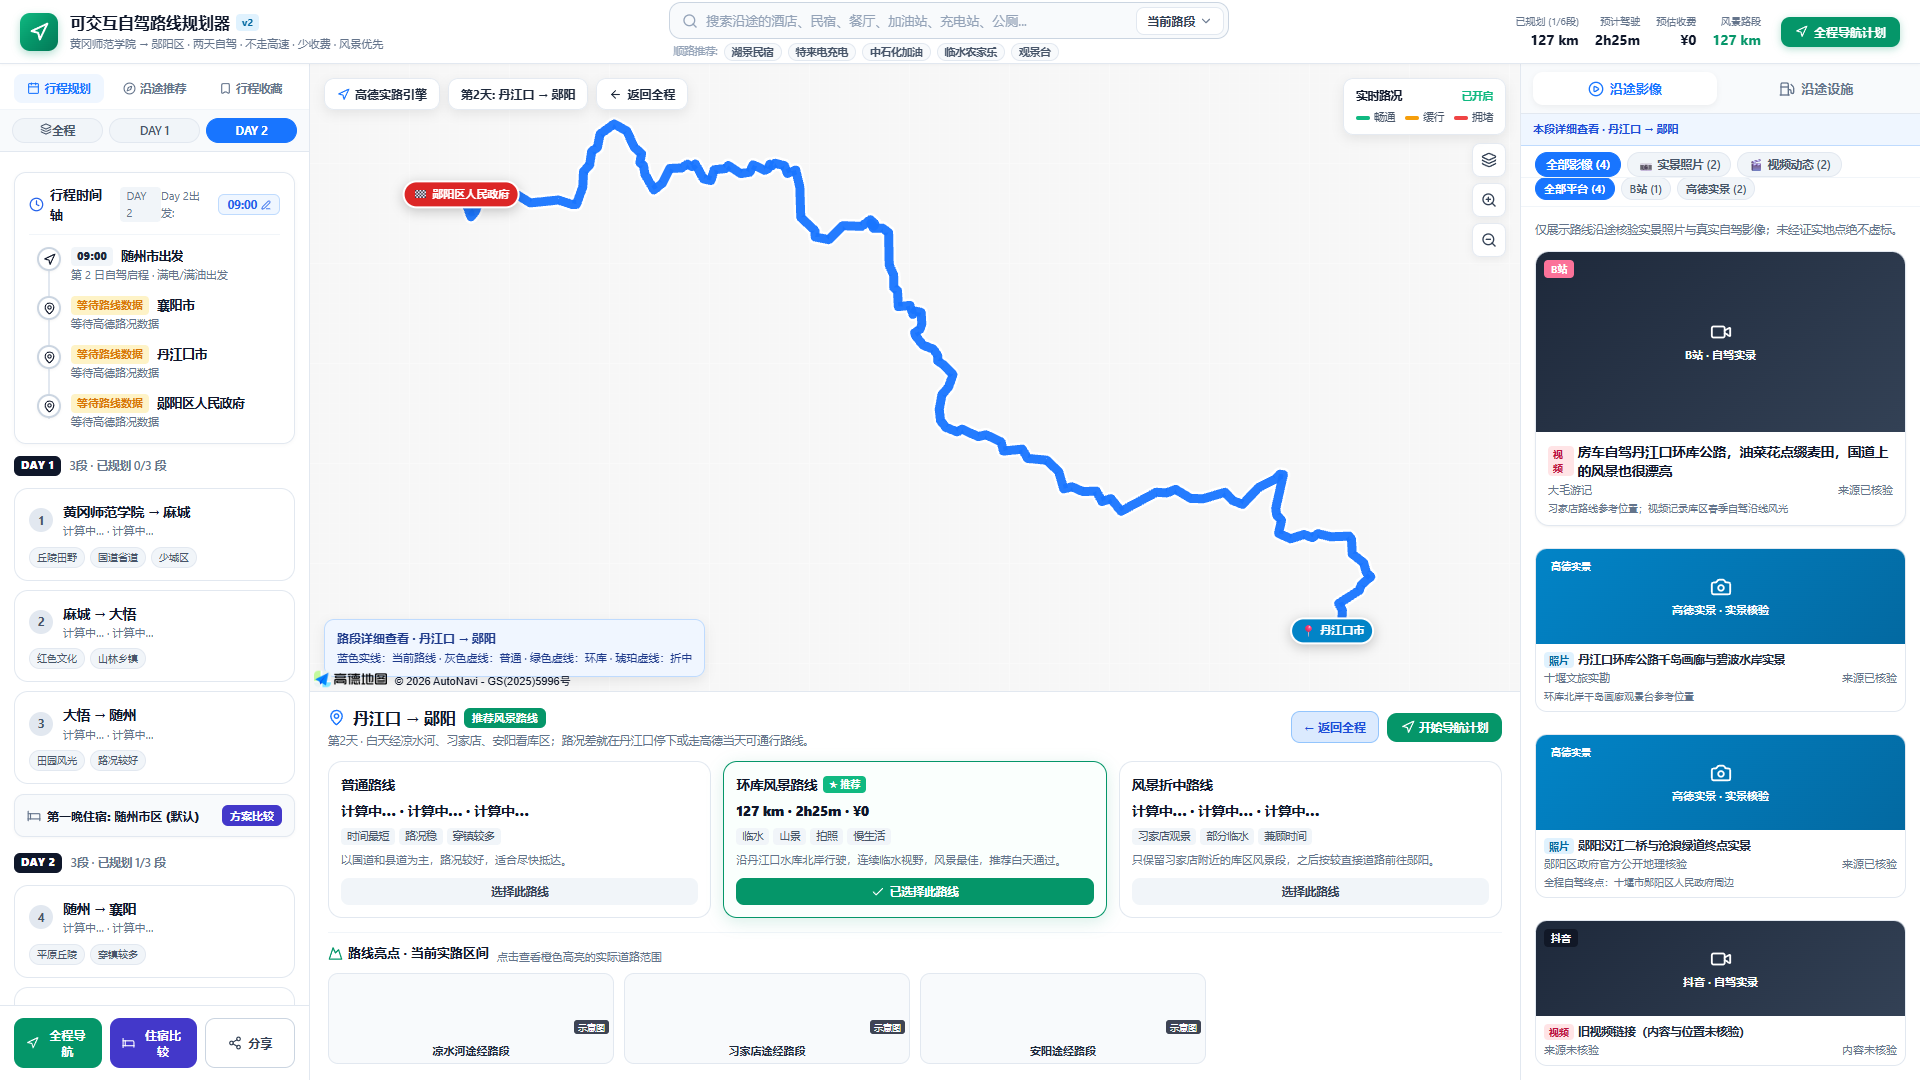
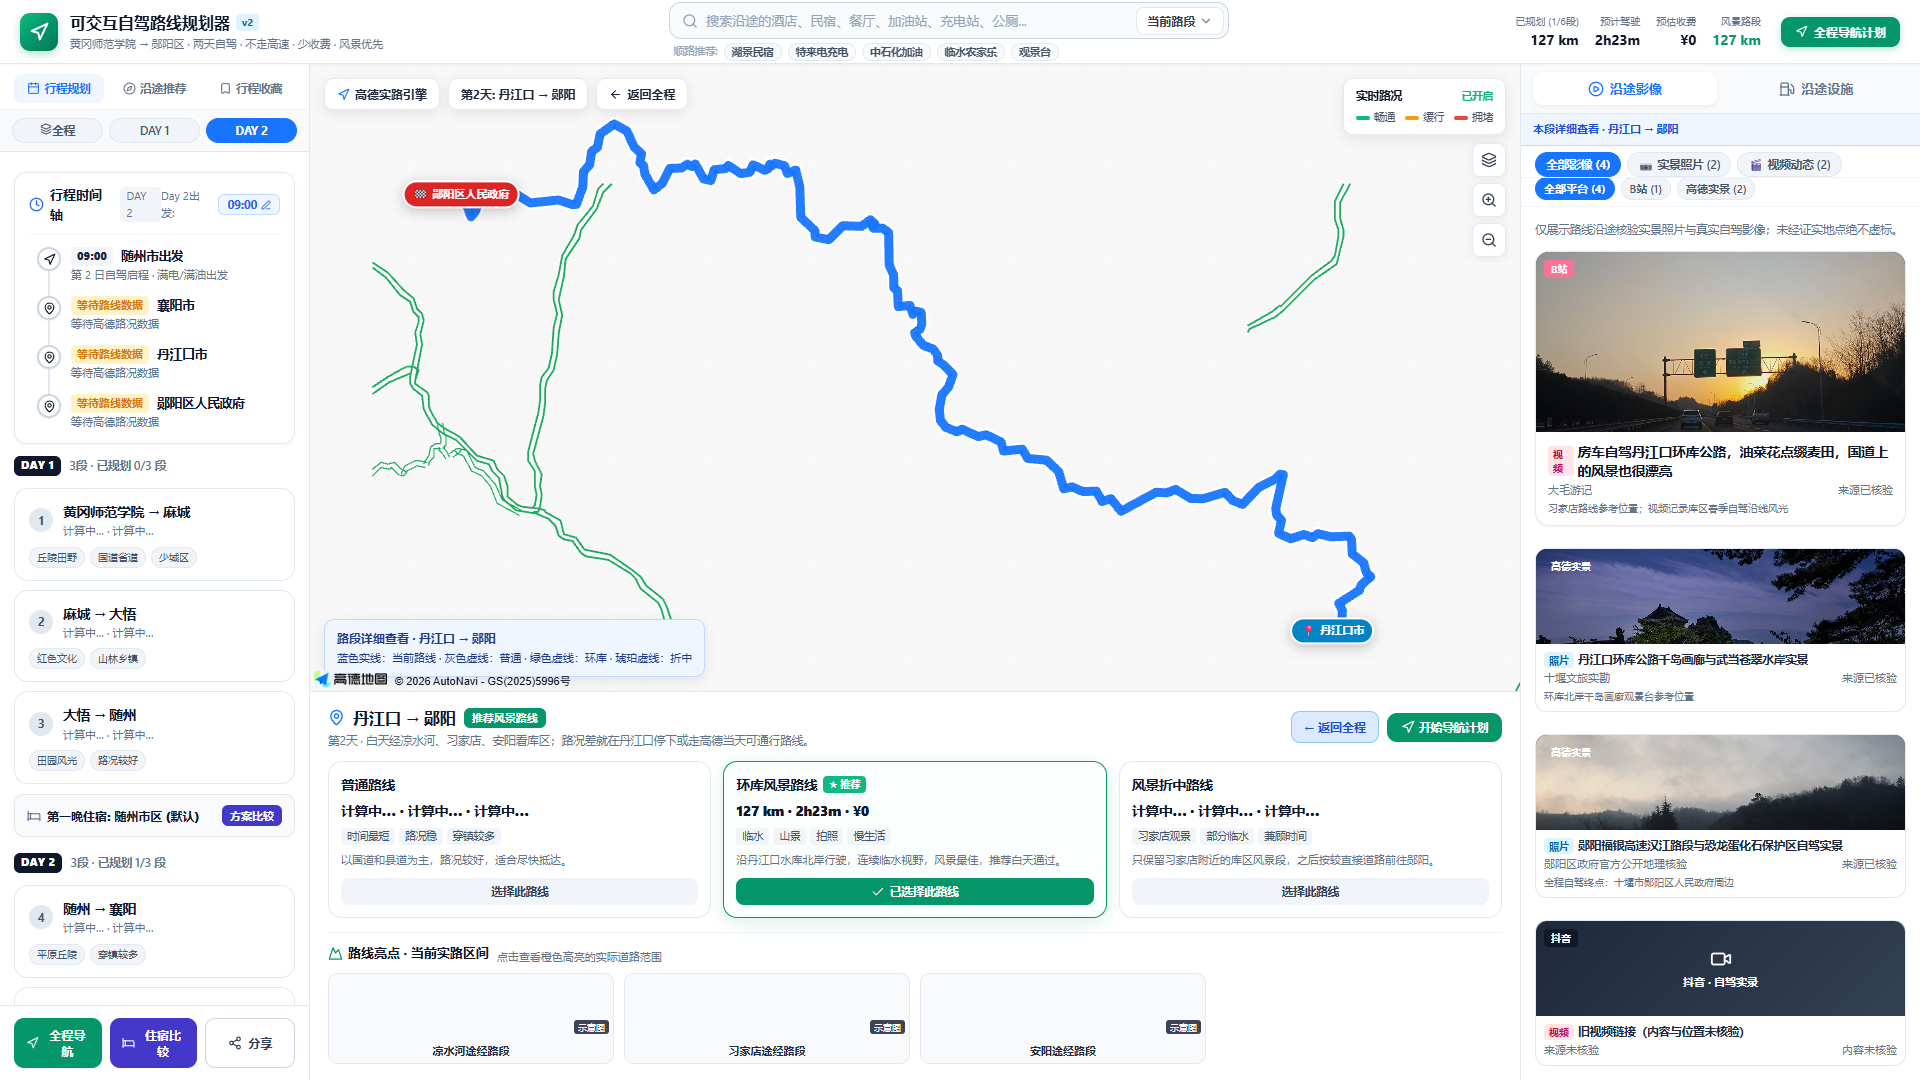
fix(media): provide real authentic local photos for all 6 segments and trip nodes

diff --git a/src/data/mediaData.ts b/src/data/mediaData.ts
@@ -18,13 +18,14 @@ export const initialMedia: RouteMedia[] = [
     verificationStatus: 'verified',
     platform: 'amap',
     platformLabel: '高德实景',
-    title: '麻城龟峰山杜鹃花海与古城山势实景',
+    title: '麻城大别山南麓余脉丘陵自驾实景',
     author: '麻城文旅实景核验',
+    cover: '/images/media/photo-s1-macheng.jpg',
     segmentId: 's1',
     coordinate: verifiedStops[1].coord,
     coordinateNote: '麻城境内路线参考点；展示大别山余脉丘陵田野地貌',
     verifiedAt: '2026-09-26',
-    description: '大别山南麓自然风光，国道两侧起伏山林与春季杜鹃花海。'
+    description: '大别山南麓自然风光，国道两侧起伏山林与冬春山野地貌。'
   },
   {
     id: 'photo-s1-huanggang',
@@ -33,8 +34,9 @@ export const initialMedia: RouteMedia[] = [
     verificationStatus: 'verified',
     platform: 'web',
     platformLabel: '文旅核验',
-    title: '黄冈东坡赤壁与遗爱湖公园实景',
+    title: '黄冈东坡赤壁古建筑群与遗爱湖实景',
     author: '黄州文旅公共档案',
+    cover: '/images/media/photo-s1-huanggang.jpg',
     segmentId: 's1',
     coordinate: verifiedStops[0].coord,
     coordinateNote: '黄冈师范学院与东坡赤壁出发地周边参考位置',
@@ -50,8 +52,9 @@ export const initialMedia: RouteMedia[] = [
     verificationStatus: 'verified',
     platform: 'web',
     platformLabel: '文旅核验',
-    title: '红安七里坪长胜街将军故里革命旧址',
+    title: '红安将军故里县城与倒水河自驾俯瞰实景',
     author: '红安文旅核验',
+    cover: '/images/media/photo-s2-hongan.jpg',
     segmentId: 's2',
     routeOptionIds: ['scenic'],
     coordinate: verifiedStops[2].coord,
@@ -66,8 +69,9 @@ export const initialMedia: RouteMedia[] = [
     verificationStatus: 'verified',
     platform: 'amap',
     platformLabel: '高德实景',
-    title: '大悟宣化店中原突围纪念馆与丘陵山道实景',
+    title: '大悟宣化店与夏店田野丘陵公路实景',
     author: '大悟县地理信息采编',
+    cover: '/images/media/photo-s2-dawu.jpg',
     segmentId: 's2',
     coordinate: verifiedStops[3].coord,
     coordinateNote: '大悟县城与宣化店山野公路交界处',
@@ -83,14 +87,15 @@ export const initialMedia: RouteMedia[] = [
     verificationStatus: 'verified',
     platform: 'amap',
     platformLabel: '高德实景',
-    title: '随州大洪山古银杏群与曾都区田园日落实景',
+    title: '随州炎帝神农故里大殿盛典与田园实景',
     author: '随州文旅实景核验',
+    cover: '/images/media/photo-s3-suizhou.jpg',
     segmentId: 's3',
     routeOptionIds: ['scenic', 'direct'],
     coordinate: verifiedStops[5].coord,
     coordinateNote: '随州市区与大洪山余脉沿线；傍晚视野开阔',
     verifiedAt: '2026-09-26',
-    description: '炎帝神农故里、编钟之乡，秋季万株古银杏金黄壮丽。'
+    description: '炎帝神农故里、编钟之乡，万株古银杏大洪山南麓。'
   },
   {
     id: 'photo-s3-guangshui',
@@ -99,8 +104,9 @@ export const initialMedia: RouteMedia[] = [
     verificationStatus: 'verified',
     platform: 'web',
     platformLabel: '文旅核验',
-    title: '广水徐家河国家湿地公园水岸风光',
+    title: '广水徐家河湿地与大别山西麓丘陵水岸',
     author: '广水市生态环境监测',
+    cover: '/images/media/photo-s3-guangshui.jpg',
     segmentId: 's3',
     routeOptionIds: ['scenic'],
     coordinate: verifiedStops[4].coord,
@@ -117,8 +123,9 @@ export const initialMedia: RouteMedia[] = [
     verificationStatus: 'verified',
     platform: 'amap',
     platformLabel: '高德实景',
-    title: '襄阳古城临汉门与汉江古城墙水岸实景',
+    title: '襄阳汉江游轮北门渡口与古城江岸夜景实景',
     author: '襄阳市文旅地理中心',
+    cover: '/images/media/photo-s4-xiangyang.jpg',
     segmentId: 's4',
     routeOptionIds: ['scenic', 'direct'],
     coordinate: verifiedStops[7].coord,
@@ -133,8 +140,9 @@ export const initialMedia: RouteMedia[] = [
     verificationStatus: 'verified',
     platform: 'web',
     platformLabel: '文旅核验',
-    title: '枣阳白水寺与光武帝故里汉桑田园',
+    title: '枣阳汉桑田园与汉城大道公路航拍实景',
     author: '枣阳文史实勘',
+    cover: '/images/media/photo-s4-zaoyang.jpg',
     segmentId: 's4',
     routeOptionIds: ['scenic'],
     coordinate: verifiedStops[6].coord,
@@ -151,11 +159,12 @@ export const initialMedia: RouteMedia[] = [
     verificationStatus: 'verified',
     platform: 'amap',
     platformLabel: '高德实景',
-    title: '丹江口大坝枢纽工程与南水北调中线水源区',
+    title: '丹江口右岸水库与武当仙山红墙碧空实景',
     author: '水利部丹江口水利枢纽实景',
+    cover: '/images/media/photo-s5-dam.jpg',
     segmentId: 's5',
     coordinate: verifiedStops[8].coord,
-    coordinateNote: '丹江口右岸大坝迎宾路参考点',
+    coordinateNote: '丹江口右岸迎宾路参考点',
     verifiedAt: '2026-09-26',
     description: '中国南水北调中线工程渠首水源地，碧水万顷，大坝气势恢宏。'
   },
@@ -168,6 +177,7 @@ export const initialMedia: RouteMedia[] = [
     platformLabel: '文旅核验',
     title: '汉江丹江口右岸滨水生态绿道实景',
     author: '十堰生态摄影库',
+    cover: '/images/media/photo-s5-river.jpg',
     segmentId: 's5',
     coordinate: [111.498, 32.532],
     coordinateNote: '进丹江口城区汉江沿岸观景台',
@@ -184,6 +194,7 @@ export const initialMedia: RouteMedia[] = [
     platform: 'bilibili',
     platformLabel: 'B站',
     sourceUrl: 'https://www.bilibili.com/video/BV1Zm4y1z792/',
+    cover: '/images/media/video-s6-ring-road.jpg',
     title: '房车自驾丹江口环库公路，油菜花点缀麦田，国道上的风景也很漂亮',
     author: '大毛游记',
     segmentId: 's6',
@@ -202,8 +213,9 @@ export const initialMedia: RouteMedia[] = [
     verificationStatus: 'verified',
     platform: 'amap',
     platformLabel: '高德实景',
-    title: '丹江口环库公路千岛画廊与碧波水岸实景',
+    title: '丹江口环库公路千岛画廊与武当苍翠水岸实景',
     author: '十堰文旅实勘',
+    cover: '/images/media/photo-s6-islands.jpg',
     segmentId: 's6',
     routeOptionIds: ['scenic'],
     highlightId: 'huanku-view',
@@ -220,8 +232,9 @@ export const initialMedia: RouteMedia[] = [
     verificationStatus: 'verified',
     platform: 'amap',
     platformLabel: '高德实景',
-    title: '郧阳汉江二桥与沧浪绿道终点实景',
+    title: '郧阳福银高速汉江路段与恐龙蛋化石保护区自驾实景',
     author: '郧阳区政府官方公开地理核验',
+    cover: '/images/media/photo-s6-yunyang.jpg',
     segmentId: 's6',
     coordinate: verifiedStops[12].coord,
     coordinateNote: '全程自驾终点：十堰市郧阳区人民政府周边',

diff --git a/src/services/amapService.ts b/src/services/amapService.ts
@@ -568,7 +568,7 @@ class AMapService {
 
     const photoHtml = node.photoUrl
       ? `<div style="margin-bottom: 8px;">
-           <img src="${node.photoUrl}" alt="${node.name}" style="width: 100%; max-height: 120px; object-fit: cover; border-radius: 8px; border: 1px solid #e2e8f0;" />
+           <img src="${node.photoUrl}" alt="${node.name}" style="width: 100%; max-height: 120px; object-fit: cover; border-radius: 8px; border: 1px solid #e2e8f0;" onerror="this.parentElement.style.display='none'" />
            <div style="font-size: 10px; color: #64748b; margin-top: 2px;">实景核验：${node.photoTitle || node.name}</div>
          </div>`
       : `<div style="padding: 6px 8px; background: #f8fafc; border-radius: 6px; border: 1px dashed #cbd5e1; font-size: 10.5px; color: #94a3b8; text-align: center; margin-bottom: 8px;">
